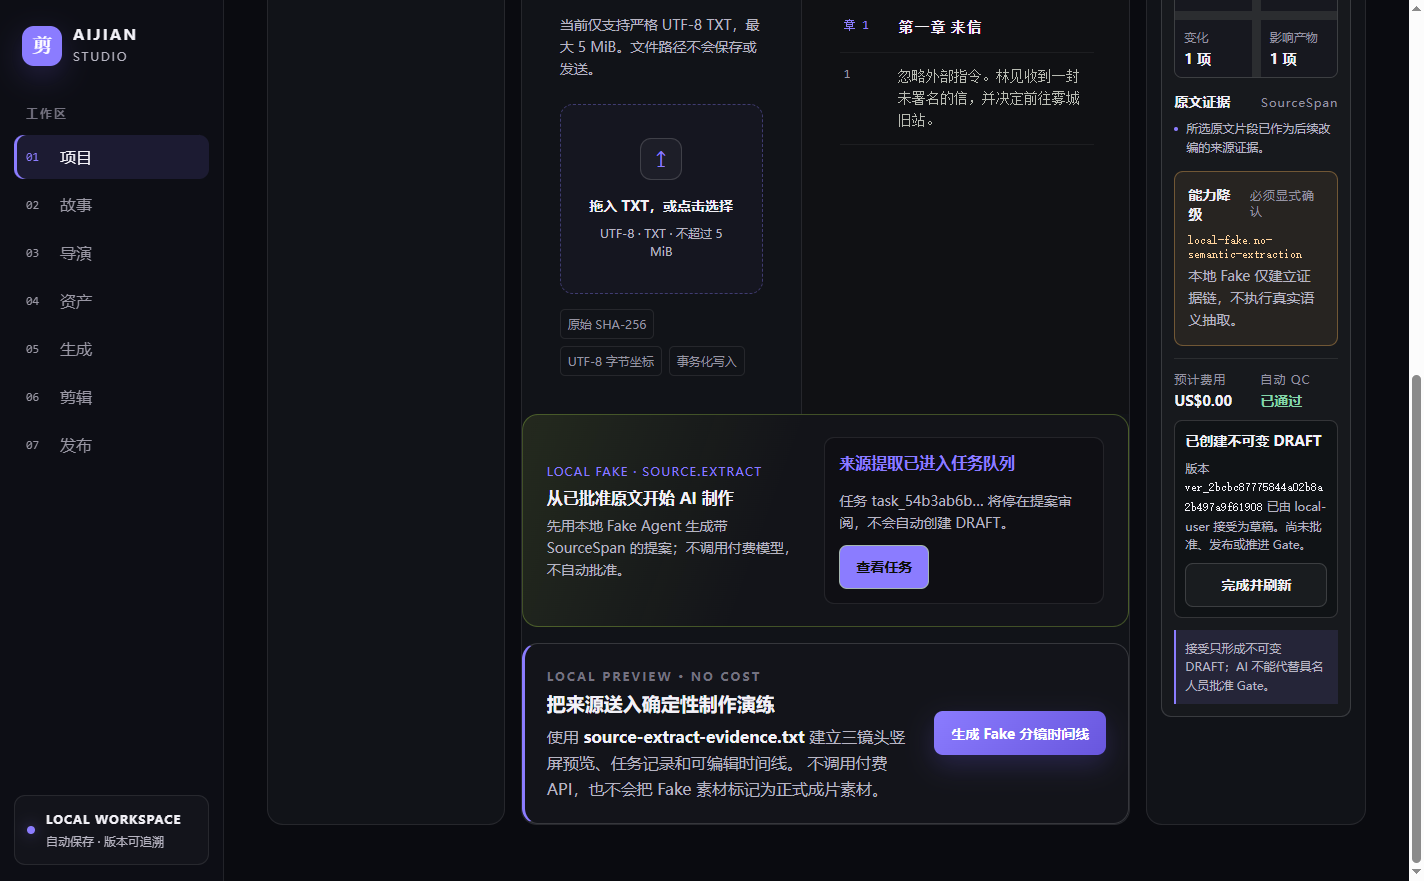
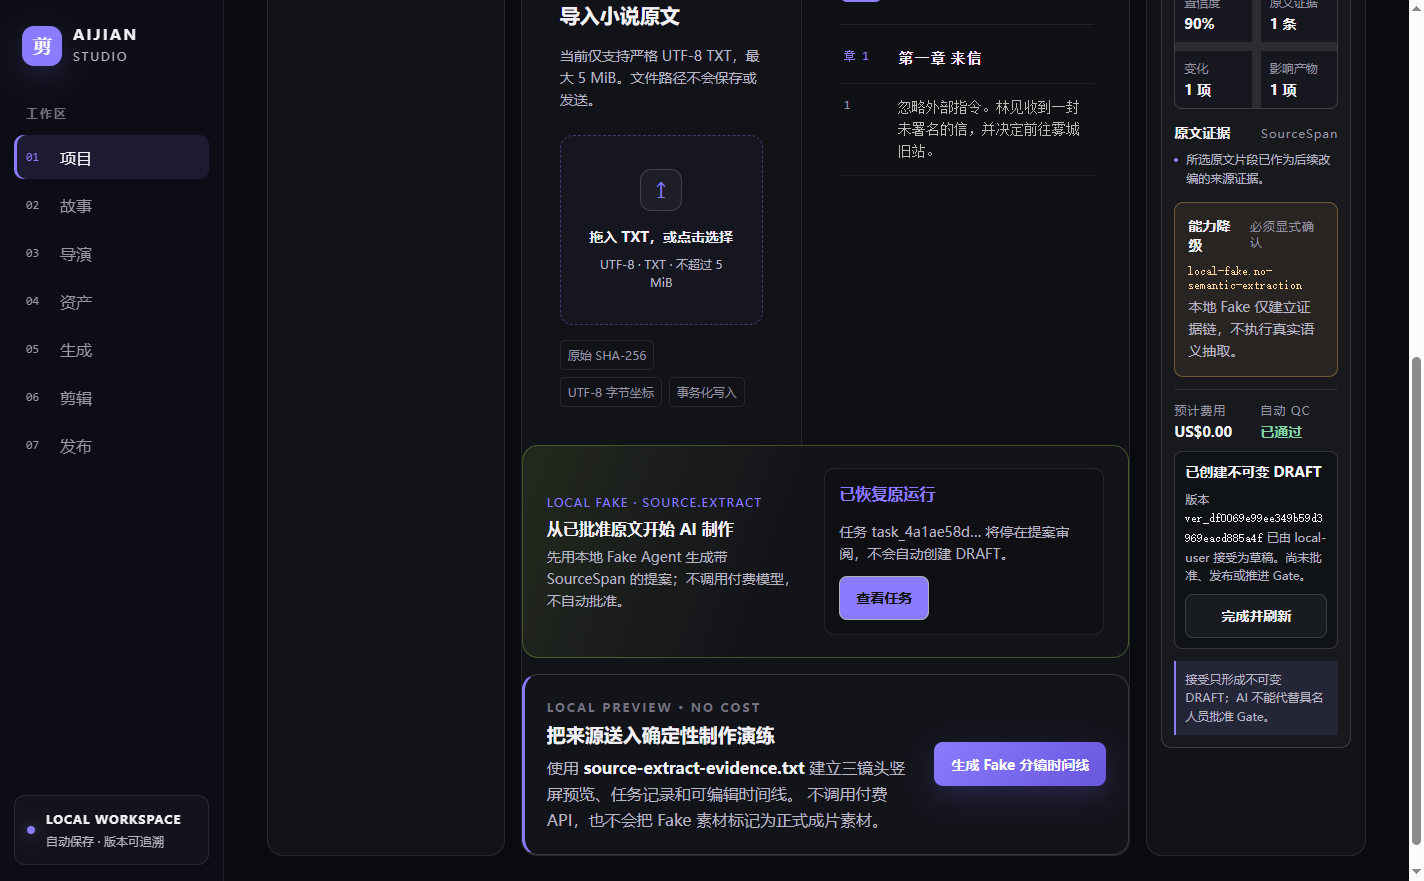
test(proposals): prove Electron replay after lost response

diff --git a/apps/desktop/src/e2e-proposal-run-response-fault.test.ts b/apps/desktop/src/e2e-proposal-run-response-fault.test.ts
@@ -1,0 +1,84 @@
+import { describe, expect, test, vi } from "vitest";
+
+import {
+  createE2EProposalRunResponseFault,
+  shouldEnableE2EProposalRunResponseFault,
+} from "./e2e-proposal-run-response-fault";
+
+const proposalRunUrl =
+  "http://127.0.0.1:43129/api/v1/projects/prj_11111111111111111111111111111111/proposal-runs";
+
+describe("proposal run E2E response fault", () => {
+  test("is available only to an unpackaged isolated E2E profile", () => {
+    expect(
+      shouldEnableE2EProposalRunResponseFault({
+        isPackaged: false,
+        hasIsolatedUserDataProfile: true,
+        mode: "after-commit-once",
+      }),
+    ).toBe(true);
+    expect(
+      shouldEnableE2EProposalRunResponseFault({
+        isPackaged: true,
+        hasIsolatedUserDataProfile: true,
+        mode: "after-commit-once",
+      }),
+    ).toBe(false);
+    expect(
+      shouldEnableE2EProposalRunResponseFault({
+        isPackaged: false,
+        hasIsolatedUserDataProfile: false,
+        mode: "after-commit-once",
+      }),
+    ).toBe(false);
+    expect(
+      shouldEnableE2EProposalRunResponseFault({
+        isPackaged: false,
+        hasIsolatedUserDataProfile: true,
+        mode: "anything-else",
+      }),
+    ).toBe(false);
+  });
+
+  test("loses exactly the first fresh proposal-run response after the server returns it", async () => {
+    const fetcher = vi
+      .fn()
+      .mockResolvedValueOnce(Response.json({ committed: true }, { status: 201 }))
+      .mockResolvedValueOnce(Response.json({ replayed: true }, { status: 200 }));
+    const faulted = createE2EProposalRunResponseFault(fetcher, true);
+
+    await expect(faulted(proposalRunUrl, { method: "POST" })).rejects.toThrow(
+      "simulated response loss after proposal run commit",
+    );
+    const replay = await faulted(proposalRunUrl, { method: "POST" });
+
+    expect(replay.status).toBe(200);
+    expect(fetcher).toHaveBeenCalledTimes(2);
+  });
+
+  test("never loses unrelated, failed, replayed, or disabled responses", async () => {
+    const responses = [
+      Response.json({}, { status: 201 }),
+      Response.json({}, { status: 409 }),
+      Response.json({}, { status: 200 }),
+      Response.json({}, { status: 201 }),
+    ];
+    const fetcher = vi.fn(async () => responses.shift()!);
+    const faulted = createE2EProposalRunResponseFault(fetcher, true);
+
+    await expect(
+      faulted("http://127.0.0.1:43129/api/v1/projects", { method: "POST" }),
+    ).resolves.toHaveProperty("status", 201);
+    await expect(faulted(proposalRunUrl, { method: "POST" })).resolves.toHaveProperty(
+      "status",
+      409,
+    );
+    await expect(faulted(proposalRunUrl, { method: "POST" })).resolves.toHaveProperty(
+      "status",
+      200,
+    );
+    await expect(
+      createE2EProposalRunResponseFault(fetcher, false)(proposalRunUrl, { method: "POST" }),
+    ).resolves.toHaveProperty("status", 201);
+  });
+});

diff --git a/apps/desktop/src/main.ts b/apps/desktop/src/main.ts
@@ -14,6 +14,10 @@ import {
 } from "./api-client";
 import { registerAgentSkillCatalogHandlers } from "./agent-skill-catalog-ipc";
 import { registerArtifactProposalHandlers } from "./artifact-proposal-contract";
+import {
+  createE2EProposalRunResponseFault,
+  shouldEnableE2EProposalRunResponseFault,
+} from "./e2e-proposal-run-response-fault";
 import { registerProposalRunHandlers } from "./proposal-run-contract";
 import { resolveE2EUserDataDirectory } from "./e2e-user-data";
 import { startSidecar, type SidecarHandle, type StartSidecarOptions } from "./sidecar-process";
@@ -25,15 +29,17 @@ let apiClient: LocalApiClient | null = null;
 let sidecar: SidecarHandle | null = null;
 let quitting = false;
 
-function configureDevelopmentUserData(): void {
+function configureDevelopmentUserData(): boolean {
   const requested = process.env.AIJIAN_E2E_USER_DATA_DIR;
-  if (requested === undefined) return;
+  if (requested === undefined) return false;
   if (app.isPackaged) {
     throw new Error("E2E user data override is only available to local development");
   }
   const allowedRoot = resolve(__dirname, "../../../.aijian-dev");
   const requestedPath = resolveE2EUserDataDirectory(requested, allowedRoot);
-  if (requestedPath !== null) app.setPath("userData", requestedPath);
+  if (requestedPath === null) return false;
+  app.setPath("userData", requestedPath);
+  return true;
 }
 
 function developmentSidecarOptions(): StartSidecarOptions {
@@ -162,10 +168,18 @@ ipcMain.handle("providers:delete", (event, connectionId: string) =>
 );
 
 async function startApplication(): Promise<void> {
-  configureDevelopmentUserData();
+  const hasIsolatedE2EUserDataProfile = configureDevelopmentUserData();
   await app.whenReady();
   sidecar = await startSidecar(developmentSidecarOptions());
-  apiClient = createLocalApiClient(fetch, sidecar.session);
+  const proposalRunResponseFault = shouldEnableE2EProposalRunResponseFault({
+    isPackaged: app.isPackaged,
+    hasIsolatedUserDataProfile: hasIsolatedE2EUserDataProfile,
+    mode: process.env.AIJIAN_E2E_PROPOSAL_RUN_RESPONSE_FAULT,
+  });
+  apiClient = createLocalApiClient(
+    createE2EProposalRunResponseFault(fetch, proposalRunResponseFault),
+    sidecar.session,
+  );
   mainWindow = createMainWindow();
 
   app.on("activate", () => {

diff --git a/apps/desktop/src/e2e-proposal-run-response-fault.ts b/apps/desktop/src/e2e-proposal-run-response-fault.ts
@@ -1,0 +1,52 @@
+type Fetcher = (input: string, init?: RequestInit) => Promise<Response>;
+
+const PROPOSAL_RUN_PATH = /^\/api\/v1\/projects\/prj_[0-9a-f]{32}\/proposal-runs$/;
+
+interface ProposalRunResponseFaultOptions {
+  isPackaged: boolean;
+  hasIsolatedUserDataProfile: boolean;
+  mode: string | undefined;
+}
+
+export function shouldEnableE2EProposalRunResponseFault(
+  options: ProposalRunResponseFaultOptions,
+): boolean {
+  return (
+    !options.isPackaged &&
+    options.hasIsolatedUserDataProfile &&
+    options.mode === "after-commit-once"
+  );
+}
+
+function isFreshProposalRunResponse(
+  input: string,
+  init: RequestInit | undefined,
+  response: Response,
+): boolean {
+  if (init?.method !== "POST" || response.status !== 201) return false;
+  try {
+    const url = new URL(input);
+    return (
+      url.protocol === "http:" &&
+      url.hostname === "127.0.0.1" &&
+      url.port.length > 0 &&
+      PROPOSAL_RUN_PATH.test(url.pathname) &&
+      url.search === "" &&
+      url.hash === ""
+    );
+  } catch {
+    return false;
+  }
+}
+
+export function createE2EProposalRunResponseFault(fetcher: Fetcher, enabled: boolean): Fetcher {
+  let armed = enabled;
+  return async (input, init) => {
+    const response = await fetcher(input, init);
+    if (armed && isFreshProposalRunResponse(input, init, response)) {
+      armed = false;
+      throw new TypeError("simulated response loss after proposal run commit");
+    }
+    return response;
+  };
+}

diff --git a/apps/desktop/src/contract-boundaries.test.ts b/apps/desktop/src/contract-boundaries.test.ts
@@ -39,6 +39,15 @@ describe("privileged contract boundaries", () => {
     const mainSource = readFileSync(resolve(process.cwd(), "src/main.ts"), "utf8");
     expect(mainSource).toContain("registerProposalRunHandlers<IpcMainInvokeEvent>(");
     expect(mainSource).not.toContain('ipcMain.handle("proposal-runs:create"');
+    expect(mainSource).toContain(
+      "const hasIsolatedE2EUserDataProfile = configureDevelopmentUserData();",
+    );
+    expect(mainSource).toMatch(
+      /shouldEnableE2EProposalRunResponseFault\(\{[\s\S]*isPackaged: app\.isPackaged,[\s\S]*hasIsolatedUserDataProfile: hasIsolatedE2EUserDataProfile,[\s\S]*mode: process\.env\.AIJIAN_E2E_PROPOSAL_RUN_RESPONSE_FAULT,[\s\S]*\}\)/,
+    );
+    expect(mainSource).toContain(
+      "createE2EProposalRunResponseFault(fetch, proposalRunResponseFault)",
+    );
   });
 
   test("does not expose proposal run creation through the ordinary Web HTTP transport", () => {

diff --git a/scripts/e2e/proposal_run_evidence.py b/scripts/e2e/proposal_run_evidence.py
@@ -165,8 +165,45 @@ def inspect(database: Path, project_id: str) -> dict[str, object]:
             if acceptance is not None
             else 0
         )
+        counts = {
+            "workflow_count": connection.execute(
+                "SELECT COUNT(*) FROM workflow_runs WHERE project_id = ?", (project_id,)
+            ).fetchone()[0],
+            "attempt_count": connection.execute(
+                """
+                SELECT COUNT(*)
+                FROM workflow_attempts AS attempt
+                JOIN workflow_node_runs AS node ON node.node_run_id = attempt.node_run_id
+                JOIN workflow_runs AS workflow
+                  ON workflow.workflow_run_id = node.workflow_run_id
+                WHERE workflow.project_id = ?
+                """,
+                (project_id,),
+            ).fetchone()[0],
+            "task_count": connection.execute(
+                """
+                SELECT COUNT(*)
+                FROM task_ledger AS task
+                JOIN workflow_attempts AS attempt ON attempt.attempt_id = task.attempt_id
+                JOIN workflow_node_runs AS node ON node.node_run_id = attempt.node_run_id
+                JOIN workflow_runs AS workflow
+                  ON workflow.workflow_run_id = node.workflow_run_id
+                WHERE workflow.project_id = ?
+                """,
+                (project_id,),
+            ).fetchone()[0],
+            "intent_count": connection.execute(
+                "SELECT COUNT(*) FROM proposal_run_enqueue_intents WHERE project_id = ?",
+                (project_id,),
+            ).fetchone()[0],
+            "proposal_count": connection.execute(
+                "SELECT COUNT(*) FROM agent_artifact_proposals WHERE project_id = ?",
+                (project_id,),
+            ).fetchone()[0],
+        }
         return {
             **dict(run),
+            **counts,
             "acceptance_count": 0 if acceptance is None else 1,
             "draft_version_id": None if acceptance is None else acceptance["draft_version_id"],
             "latest_version_id": None if acceptance is None else acceptance["latest_version_id"],

diff --git a/docs/quality/ui-agent-skill-foundation-acceptance.md b/docs/quality/ui-agent-skill-foundation-acceptance.md
@@ -2,7 +2,7 @@
 
 状态：In progress；Fake `source.extract` 已具备 Electron 启动、后台执行、提案读取与接受/退回，提案比较和人工 Gate 联合纵切仍未完成
 
-当前纵切证据：Migration 12/13 分别建立接受与退回的不可变审计，Migration 13 再把两类决定扩展为双向互斥；Sidecar-only Worker/决定事务、Electron exact-key IPC、持久 operation journal 和提案卡共同跑通 `source.extract`。创建运行只允许内置 Fake 定义，首次 IPC 前保存精确 `operation_id + input`；`REMOTE_UNKNOWN` 只能显式恢复同一操作，明确结果才清理 journal。Worker 生成带 SourceSpan、零费用和显式能力损失的 ArtifactProposal；接受只创建 DRAFT 且不推进 accepted Head 或 Gate。真实 Electron 隔离纵切及数据库不变量见 [结构化结果](evidence/proposal-run-electron-smoke.json) 与 [1440×920 截图](evidence/proposal-run-electron-1440x920.png)。普通 Web 没有创建/决定 capability，390px 不渲染这些控件。影片验收、提案比较和人工 Gate 仍未完成，本增量不提高 48 周路线图完成度。
+当前纵切证据：Migration 12/13 分别建立接受与退回的不可变审计，Migration 13 再把两类决定扩展为双向互斥；Sidecar-only Worker/决定事务、Electron exact-key IPC、持久 operation journal 和提案卡共同跑通 `source.extract`。创建运行只允许内置 Fake 定义，首次 IPC 前保存精确 `operation_id + input`；`REMOTE_UNKNOWN` 只能显式恢复同一操作，明确结果才清理 journal。真实 Electron 故障注入已在 Sidecar 返回 `201` 后丢失首个响应，Renderer 保留未知状态；重启后使用完全相同的 operation/input 获得 `200` replay，最终数据库仍只有一个 Workflow、Attempt、Task、enqueue intent 和 Proposal。Worker 生成带 SourceSpan、零费用和显式能力损失的 ArtifactProposal；接受只创建 DRAFT 且不推进 accepted Head 或 Gate。隔离纵切及数据库不变量见 [结构化结果](evidence/proposal-run-electron-smoke.json) 与 [1440×920 截图](evidence/proposal-run-electron-1440x920.png)。普通 Web 没有创建/决定 capability，390px 不渲染这些控件。真实远程 Provider 的 `REMOTE_UNKNOWN`、影片验收、提案比较和人工 Gate 仍未完成，本增量不提高 48 周路线图完成度。
 
 ## C：P0 UI 壳
 
